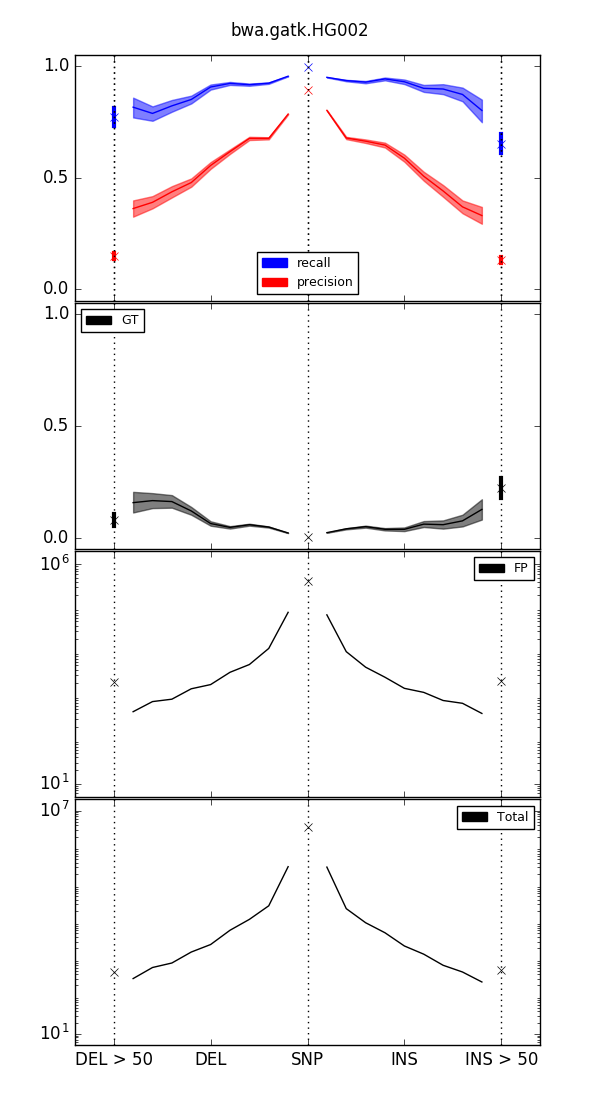
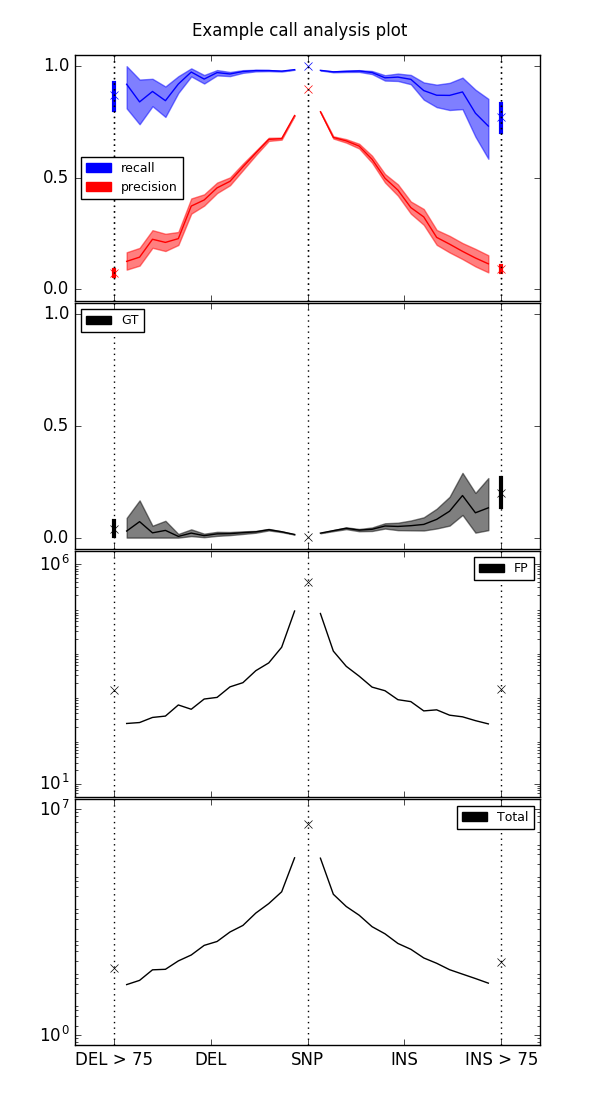
docs: improving example figures

diff --git a/Readme.md b/Readme.md
@@ -342,18 +342,28 @@ One of the outputs of the comparator tools is a VCF (called an evaluation VCF) w
 
 ```
 mitty -v4 debug variant-call-analysis process \
-  eval.vcf.gz \
-  caller.analysis.csv \
-  --max-size 200 \
-  --fig-file demo.png \
-  --plot-bin-size 10  \
-  --title 'Example'
+ my.eval.vcf.gz 
+ my.eval.data.csv 
+ --max-size 75 \
+ --fig-file caller-report-example.png \
+ --plot-bin-size 5 \
+ --title 'Example call analysis plot'
 ```
 
-This invocation will process `evcf.vcf.gz`, write the results as a comma separated file (`caller.analysis.csv`) and also plot them
-in `demo.png`. 
+This invocation will process `my.eval.vcf.gz` produced by vcfeval, write the results as a comma 
+separated file (`my.eval.data.csv`) and then plot them in `caller-report-example.png`. 
 
 ![P/R plots](docs/images/caller-report-example.png?raw=true "P/R plots")
+
+To replot already processed data use the `plot` subcommand instead of the `process` subcommand
+```
+mitty -v4 debug variant-call-analysis plot \
+  my.eval.data.csv \
+  caller-report-example.png \
+  --plot-bin-size 5 \ 
+  --plot-range 75 \
+  --title 'Example call analysis plot'
+```
 
 
 ## Find differences in alignments
